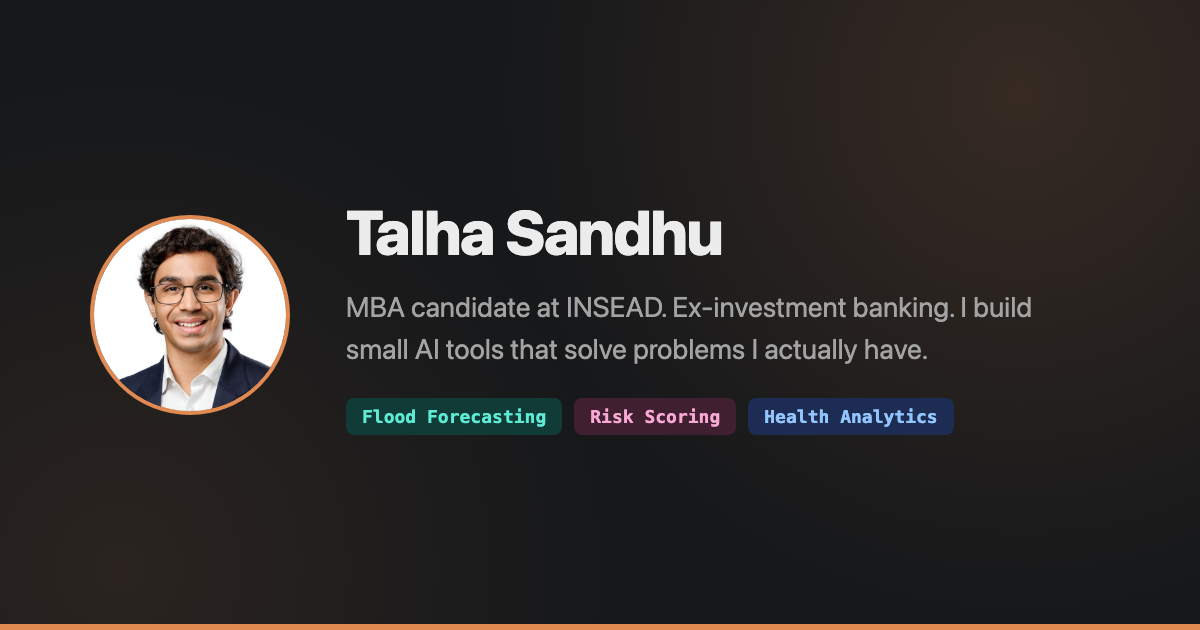
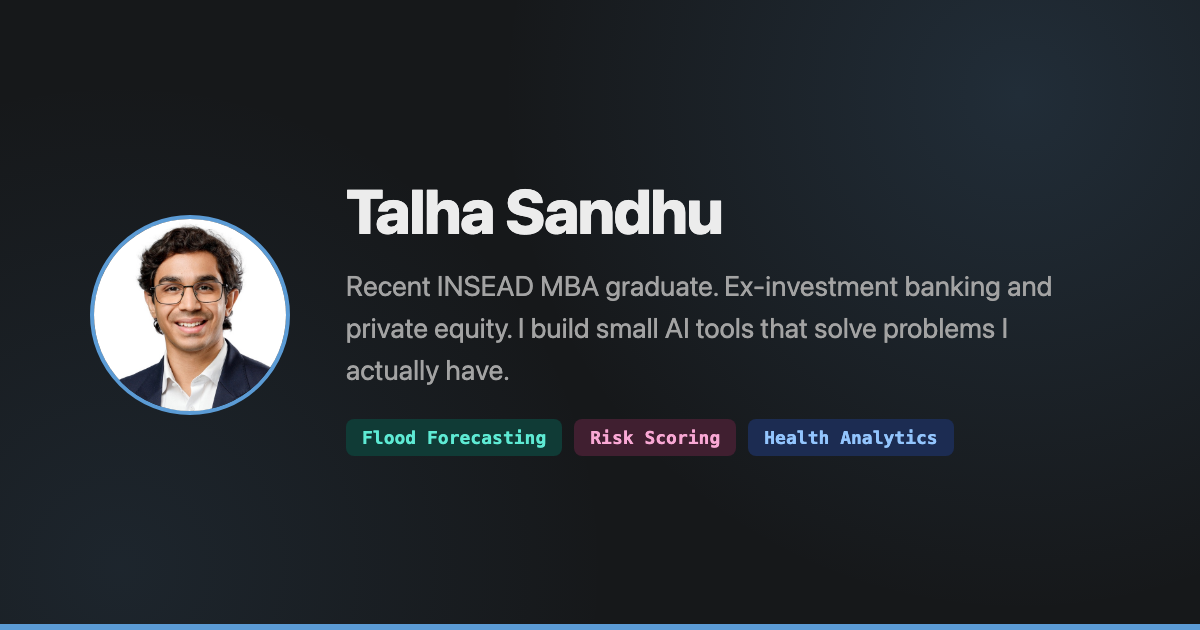
Switch accent color from orange to a McKinsey-style blue
Updated the CSS accent variables (light + dark theme), favicon, apple-touch-icon, and all four OG social share images to match. Also removed a stray line from the PSX page and refreshed the OG card copy to match the recent bio update.

diff --git a/project-psx.html b/project-psx.html
@@ -92,7 +92,7 @@
       </div>
       <div class="value-card">
         <div class="label">The approach</div>
-        <p>Scrapes and cross-verifies company financials from multiple official sources, catching real bugs along the way (one source reports figures in thousands, silently understating results 1000x if not rescaled). Scores each company across Valuation, Financial Health, and Growth pillars using industrial or bank-specific templates, then generates a narrative report where every sentence is assembled directly from a number the scoring engine already computed. There's nothing left to hallucinate.</p>
+        <p>Scrapes and cross-verifies company financials from multiple official sources, catching real bugs along the way (one source reports figures in thousands, silently understating results 1000x if not rescaled). Scores each company across Valuation, Financial Health, and Growth pillars using industrial or bank-specific templates, then generates a narrative report where every sentence is assembled directly from a number the scoring engine already computed.</p>
       </div>
       <div class="value-card">
         <div class="label">The result</div>

diff --git a/style.css b/style.css
@@ -4,9 +4,9 @@
   --text: #1a1a1a;
   --text-muted: #5c5c5c;
   --border: #e5e3e0;
-  --accent: #b8501f;
-  --accent-hover: #943f18;
-  --accent-soft: #fbe8db;
+  --accent: #0f5499;
+  --accent-hover: #0c4380;
+  --accent-soft: #e3edf7;
   --code-bg: #f0efec;
   --sidebar-w: 250px;
 
@@ -24,9 +24,9 @@
   --text: #ececec;
   --text-muted: #a3a3a3;
   --border: #303338;
-  --accent: #e08a52;
-  --accent-hover: #f0a26e;
-  --accent-soft: #3a2a1e;
+  --accent: #5b9bd5;
+  --accent-hover: #7eb6e8;
+  --accent-soft: #16283d;
   --code-bg: #212428;
 
   --c1: #5eead4; --c1-bg: #103b36;
@@ -44,9 +44,9 @@
     --text: #ececec;
     --text-muted: #a3a3a3;
     --border: #303338;
-    --accent: #e08a52;
-    --accent-hover: #f0a26e;
-    --accent-soft: #3a2a1e;
+    --accent: #5b9bd5;
+    --accent-hover: #7eb6e8;
+    --accent-soft: #16283d;
     --code-bg: #212428;
 
     --c1: #5eead4; --c1-bg: #103b36;
